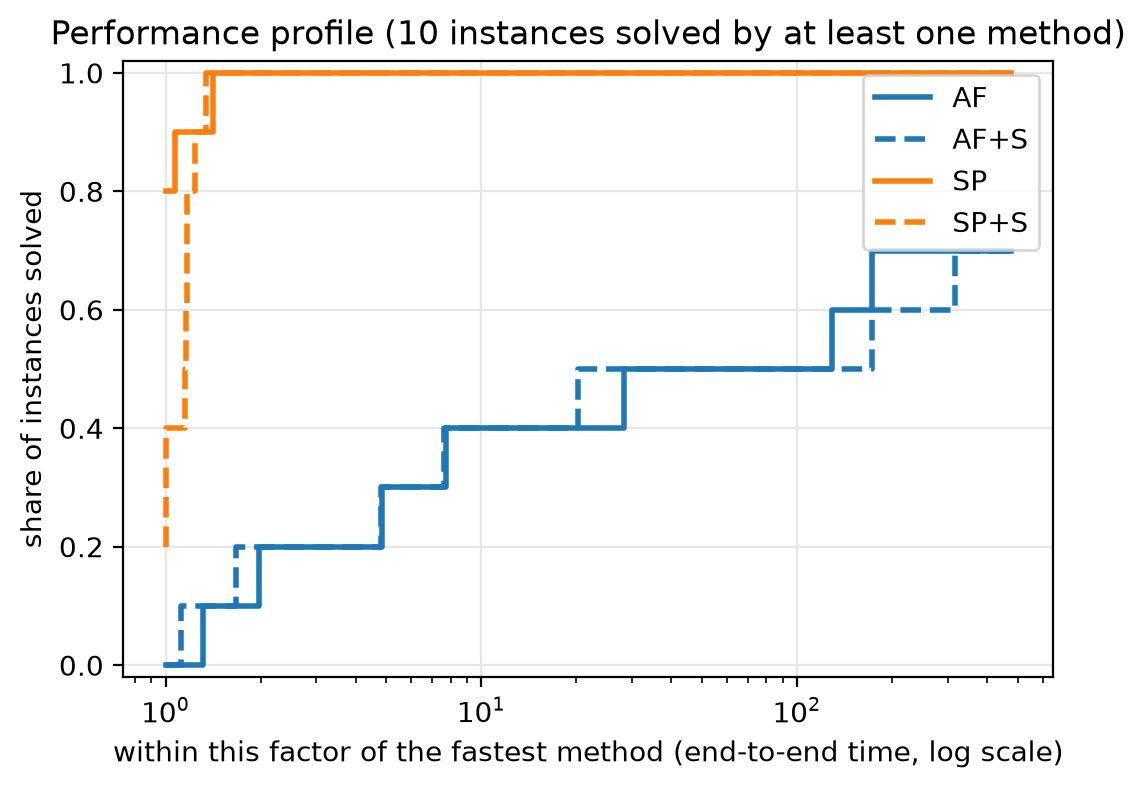
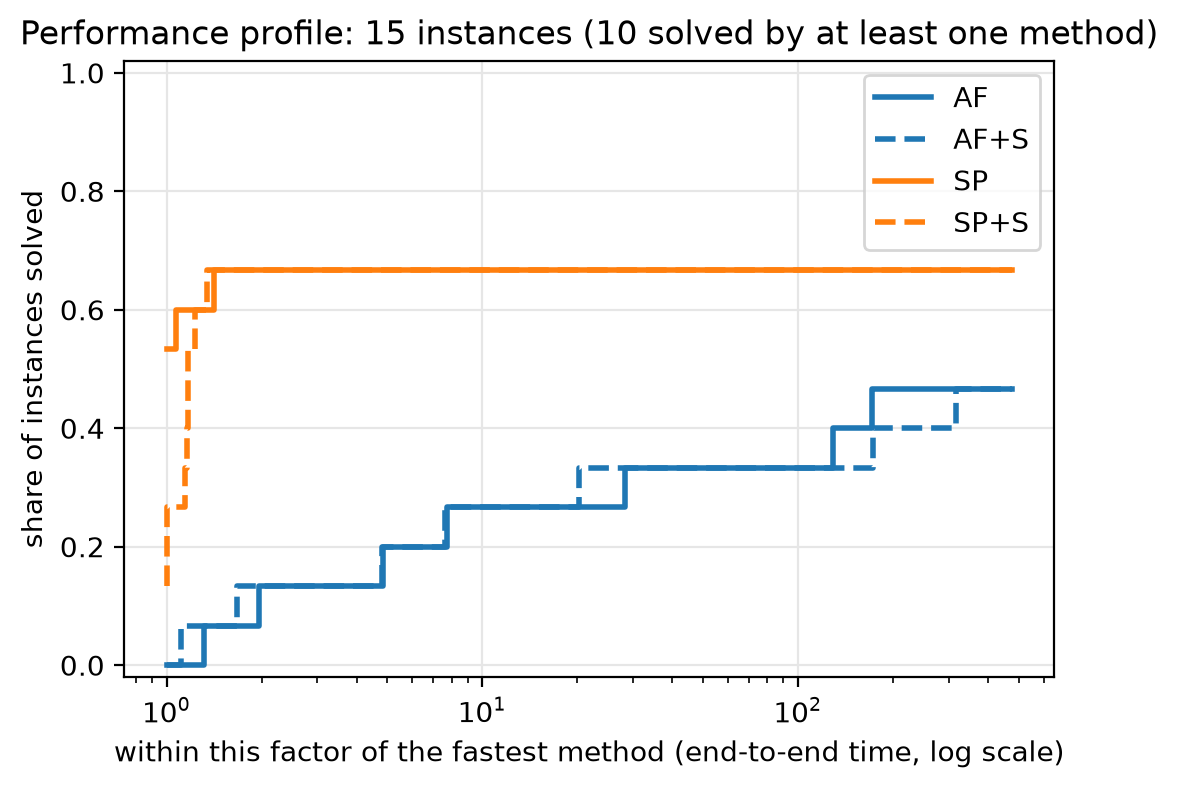
Slide 12 profile redrawn after A's profile_curve fix (1e7c726): SP ends at 10/15, AF at 7/15

diff --git a/slides/slides_C.md b/slides/slides_C.md
@@ -87,7 +87,8 @@ not the schedule.
 
 **Show:** the comparison table (C9, `results/report/tables.md`, methods in rows) and the performance profile (A16,
 `slides/figures/C_slide12_profile.png`).
-Highlight three numbers: SP optimal 10 / 15, AF optimal 7 / 15, SP not built 5 / 15.
+Highlight three numbers: SP optimal 10 / 15, AF optimal 7 / 15, SP not built 5 / 15 (the profile curves end at
+67 % and 47 %: the share of all 15 instances each model solved).
 
 **Numbers (final runs):**
 - SP: optimal on all 10 instances it could build, every one in under 1 s end-to-end (max 0.9 s, n = 100,
@@ -161,5 +162,5 @@ real timetables?* - only for this generator's family; we say so. *Why column gen
 
 ### Before Gate 3 - what is left
 1. A and B check the H1-H5 and H8 wording against their own write-ups (`notebook_src/discussion.md`).
-2. Figures: `py slides/make_figures_C.py` (done, 10 Nov). **Re-run after A fixes `profile_curve`** (divide by all 15, so SP ends at 67 %, AF at 47 %).
+2. Figures: `py slides/make_figures_C.py` (done; slide 12 profile redrawn 11 Nov after A's fix 1e7c726: SP ends at 67 % = 10/15, AF at 47 % = 7/15).
 3. Merge: A's slides 1-5 + B's `slides_B.pptx` (6-9, 13) + these four into `slides_groupM.pptx` / `.pdf`.
